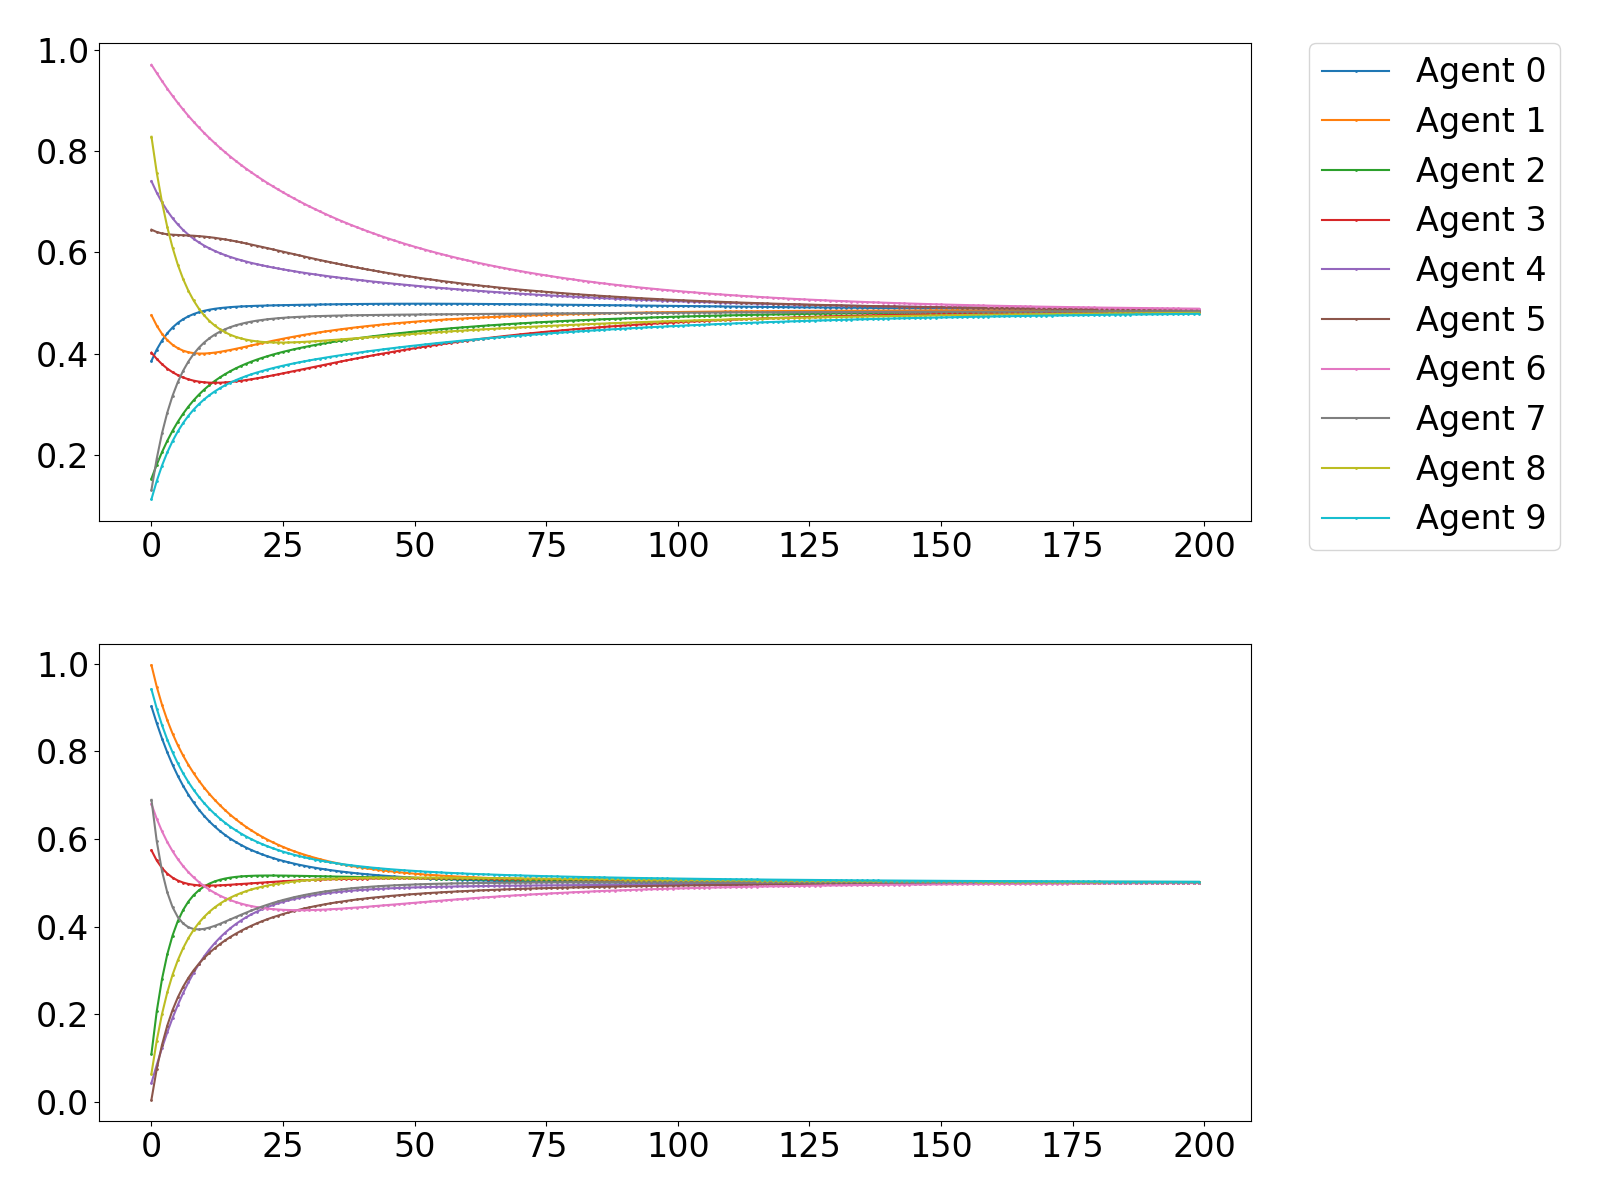
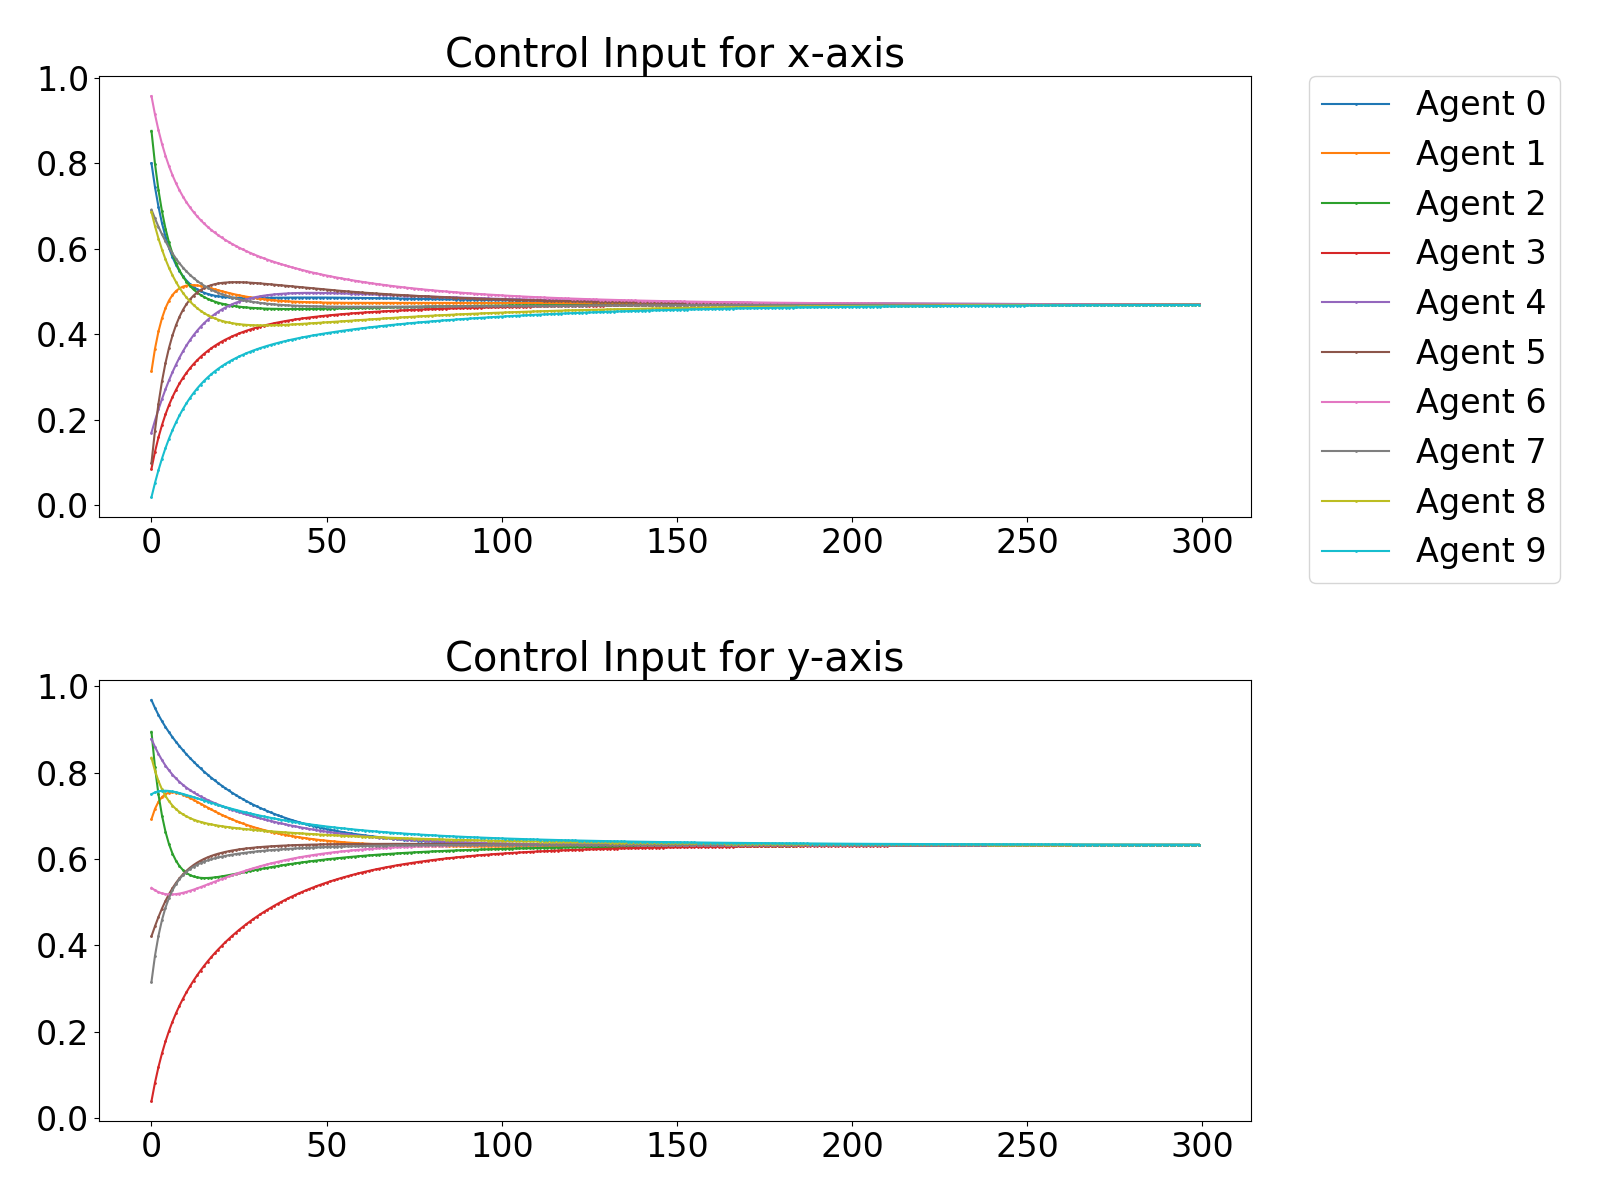
[add] show figure title

diff --git a/demo.py b/demo.py
@@ -1,67 +1,81 @@
-import math
-import random
 import numpy as np
 import matplotlib.pyplot as plt
 import matplotlib.animation as animation
 
-def Laplacian() -> np.ndarray:
-    # Set graph Laplacian matrix
-    a = np.array([
-        [0, 1, 0, 0, 1, 0, 0, 0, 0, 0],
-        [0, 0, 1, 0, 0, 0, 0, 0, 0, 0],
-        [0, 0, 0, 1, 0, 0, 0, 1, 0, 0],
-        [0, 0, 0, 0, 0, 0, 0, 0, 0, 0],
-        [0, 0, 0, 0, 0, 1, 0, 0, 0, 0],
-        [0, 0, 0, 0, 0, 0, 1, 1, 0, 0],
-        [0, 0, 0, 0, 0, 0, 0, 0, 0, 0],
-        [0, 0, 0, 0, 0, 0, 0, 0, 1, 0],
-        [0, 0, 0, 0, 0, 0, 0, 0, 0, 1],
-        [0, 0, 0, 0, 0, 0, 0, 0, 0, 0]
-        ])
-    A = a + a.T
-    D = np.diag(np.sum(A, axis=0))  # axisの誤りを修正
-    L = D - A
-    
-    return L
+np.random.seed(1)
 
-def Agreement(dimention:int, step: int) -> np.ndarray:
-    L = Laplacian()
+
+class network():
+    def __init__(self):
+        self.L = np.empty
+
+    def Laplacian(self) -> np.ndarray:
+        # Set graph Laplacian matrix
+        a = np.array([
+            [0, 1, 0, 0, 1, 0, 0, 0, 0, 0],
+            [0, 0, 1, 0, 0, 0, 0, 0, 0, 0],
+            [0, 0, 0, 1, 0, 0, 0, 1, 0, 0],
+            [0, 0, 0, 0, 0, 0, 0, 0, 0, 0],
+            [0, 0, 0, 0, 0, 1, 0, 0, 0, 0],
+            [0, 0, 0, 0, 0, 0, 1, 1, 0, 0],
+            [0, 0, 0, 0, 0, 0, 0, 0, 0, 0],
+            [0, 0, 0, 0, 0, 0, 0, 0, 1, 0],
+            [0, 0, 0, 0, 0, 0, 0, 0, 0, 1],
+            [0, 0, 0, 0, 0, 0, 0, 0, 0, 0]
+            ])
+        A = a + a.T
+        D = np.diag(np.sum(A, axis=0))
+        L = D - A
+
+        return L
+
+
+def Consensus(dimention: int, step: int) -> np.ndarray:
+    G = network()
+    L = G.Laplacian()
     n = L.shape[0]
     x = np.zeros((n, dimention, step))  # xの形状を修正
-    x[:, :, 0] = np.random.uniform(size =(n, dimention))  # 初期位置を代入
+    x[:, :, 0] = np.random.uniform(size=(n, dimention))
     for k in range(1, step):
         x[:, :, k] = x[:, :, k - 1] - 0.05 * L @ x[:, :, k - 1]
     return x
 
-def RenderGIF() -> None:
-    x = Agreement(2, 300)
+
+def static_figure() -> None:
+    x = Consensus(2, 300)
     plt.rcParams["font.size"] = 24
-    fig = plt.figure(figsize=(12, 12), tight_layout=True)
-    ax3 = fig.add_subplot(111)
+    fig1 = plt.figure(figsize=(16, 12), tight_layout=True)
+    ax1 = fig1.add_subplot(211)
+    for i in range(x.shape[0]):
+        ax1.plot(x[i, 0, :], marker='o', markersize=1, label='Agent {}'.format(i))
+    ax1.legend(bbox_to_anchor=(1.05, 1), loc='upper left', borderaxespad=0)
+    ax1.set_title("Control Input for x-axis")
+    ax2 = fig1.add_subplot(212)
+    for i in range(x.shape[0]):
+        ax2.plot(x[i, 1, :], marker='o', markersize=1, label='Agent {}'.format(i))
+    ax2.set_title("Control Input for y-axis")
+    fig1.savefig('Result.png')
+
+
+def RenderGIF() -> None:
+    x = Consensus(2, 300)
+    plt.rcParams["font.size"] = 24
+    fig2 = plt.figure(figsize=(12, 12), tight_layout=True)
+    ax3 = fig2.add_subplot(111)
     ax3.set_xlim(min(x[:, 0, 0]) - 0.1, max(x[:, 0, 0]) + 0.1)
     ax3.set_ylim(min(x[:, 1, 0]) - 0.1, max(x[:, 1, 0]) + 0.1)
+    ax3.set_title("Agent Trajectory")
     scatter_plots = [ax3.scatter(x[i, 0, 0], x[i, 1, 0], marker='o', s=100) for i in range(x.shape[0])] 
+
     def update(frame):
         for i in range(x.shape[0]):
             scatter_plots[i].set_offsets(np.column_stack([x[i, 0, frame], x[i, 1, frame]]))
         return scatter_plots
 
-    anim = animation.FuncAnimation(fig, update, frames=x.shape[2], blit=True)
-    anim.save('Result.gif', writer='pillow', fps=20)
-    
-def static_figure() -> None:
-    x = Agreement(2, 200)
-    plt.rcParams["font.size"] = 24
-    fig = plt.figure(figsize=(16, 12), tight_layout=True)
-    ax1 = fig.add_subplot(211)
-    for i in range(x.shape[0]):
-        ax1.plot(x[i, 0, :], marker='o', markersize=1, label='Agent {}'.format(i))
-    ax1.legend(bbox_to_anchor=(1.05, 1), loc='upper left', borderaxespad=0)
-    ax2 = fig.add_subplot(212)
-    for i in range(x.shape[0]):
-        ax2.plot(x[i, 1, :], marker='o', markersize=1, label='Agent {}'.format(i))
-    # ax2.legend(bbox_to_anchor=(1.05, 1), loc='upper left', borderaxespad=0)
-    fig.savefig('Result.png')
+    anim = animation.FuncAnimation(fig2, update, frames=x.shape[2], blit=True)
+    anim.save('Result.gif', writer='pillow', fps=40)
 
-RenderGIF()
-static_figure()
+
+if __name__ == '__main__':
+    RenderGIF()
+    static_figure()
